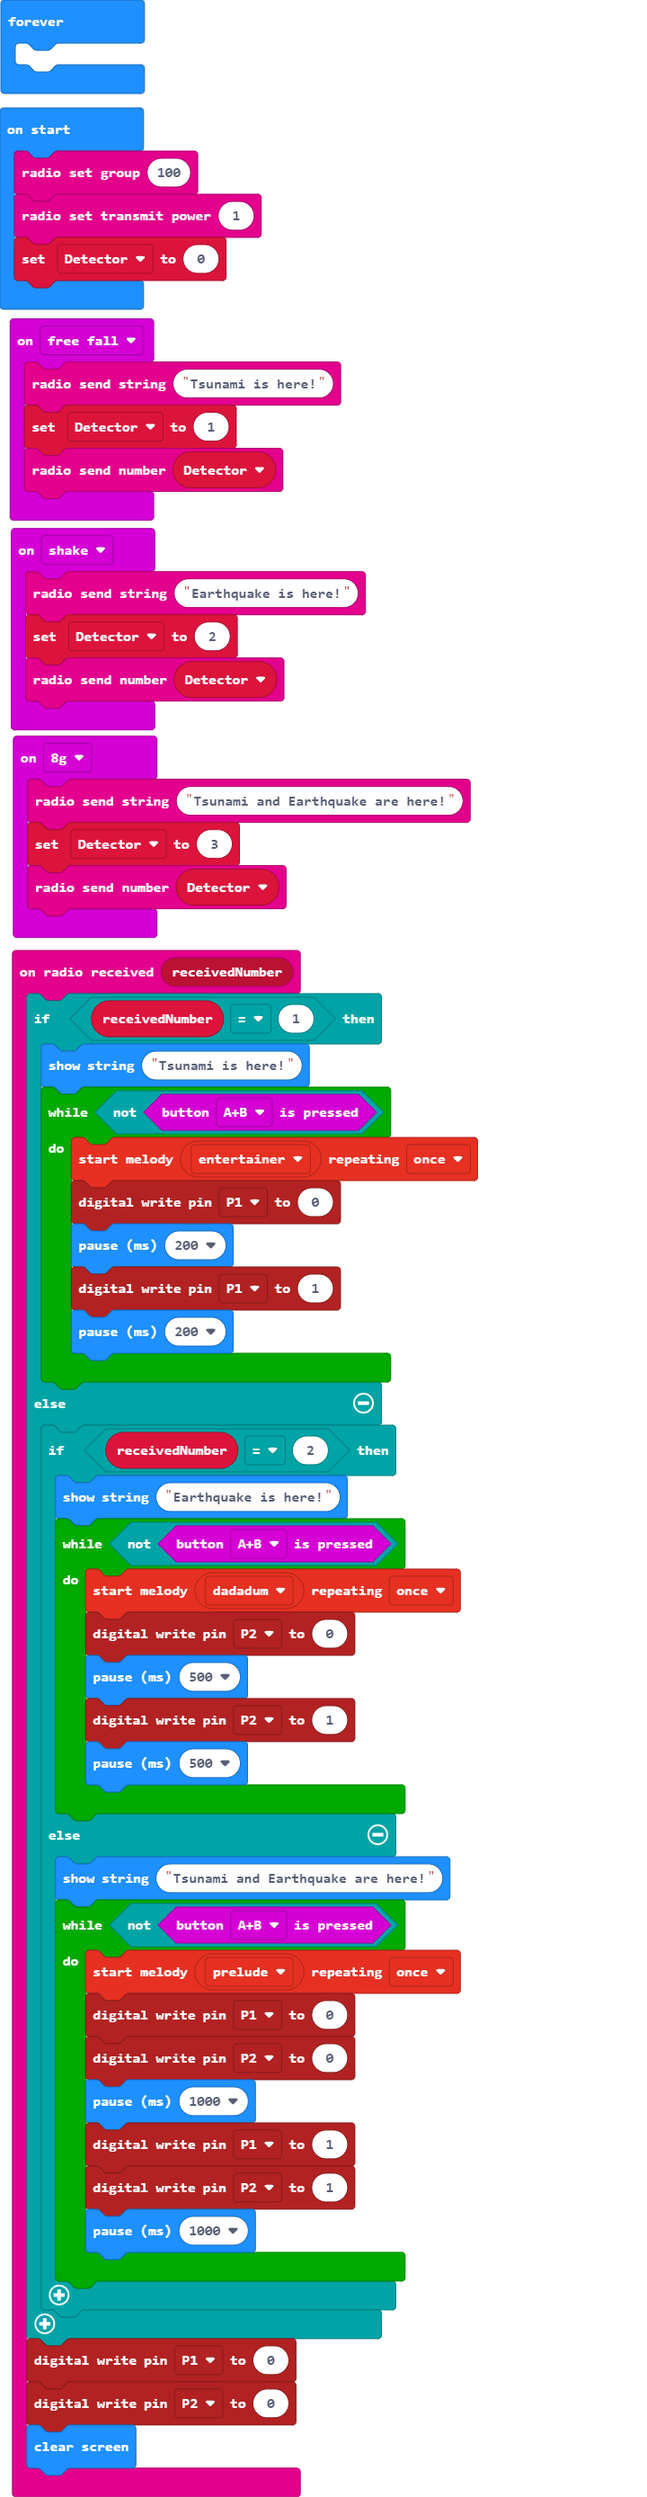
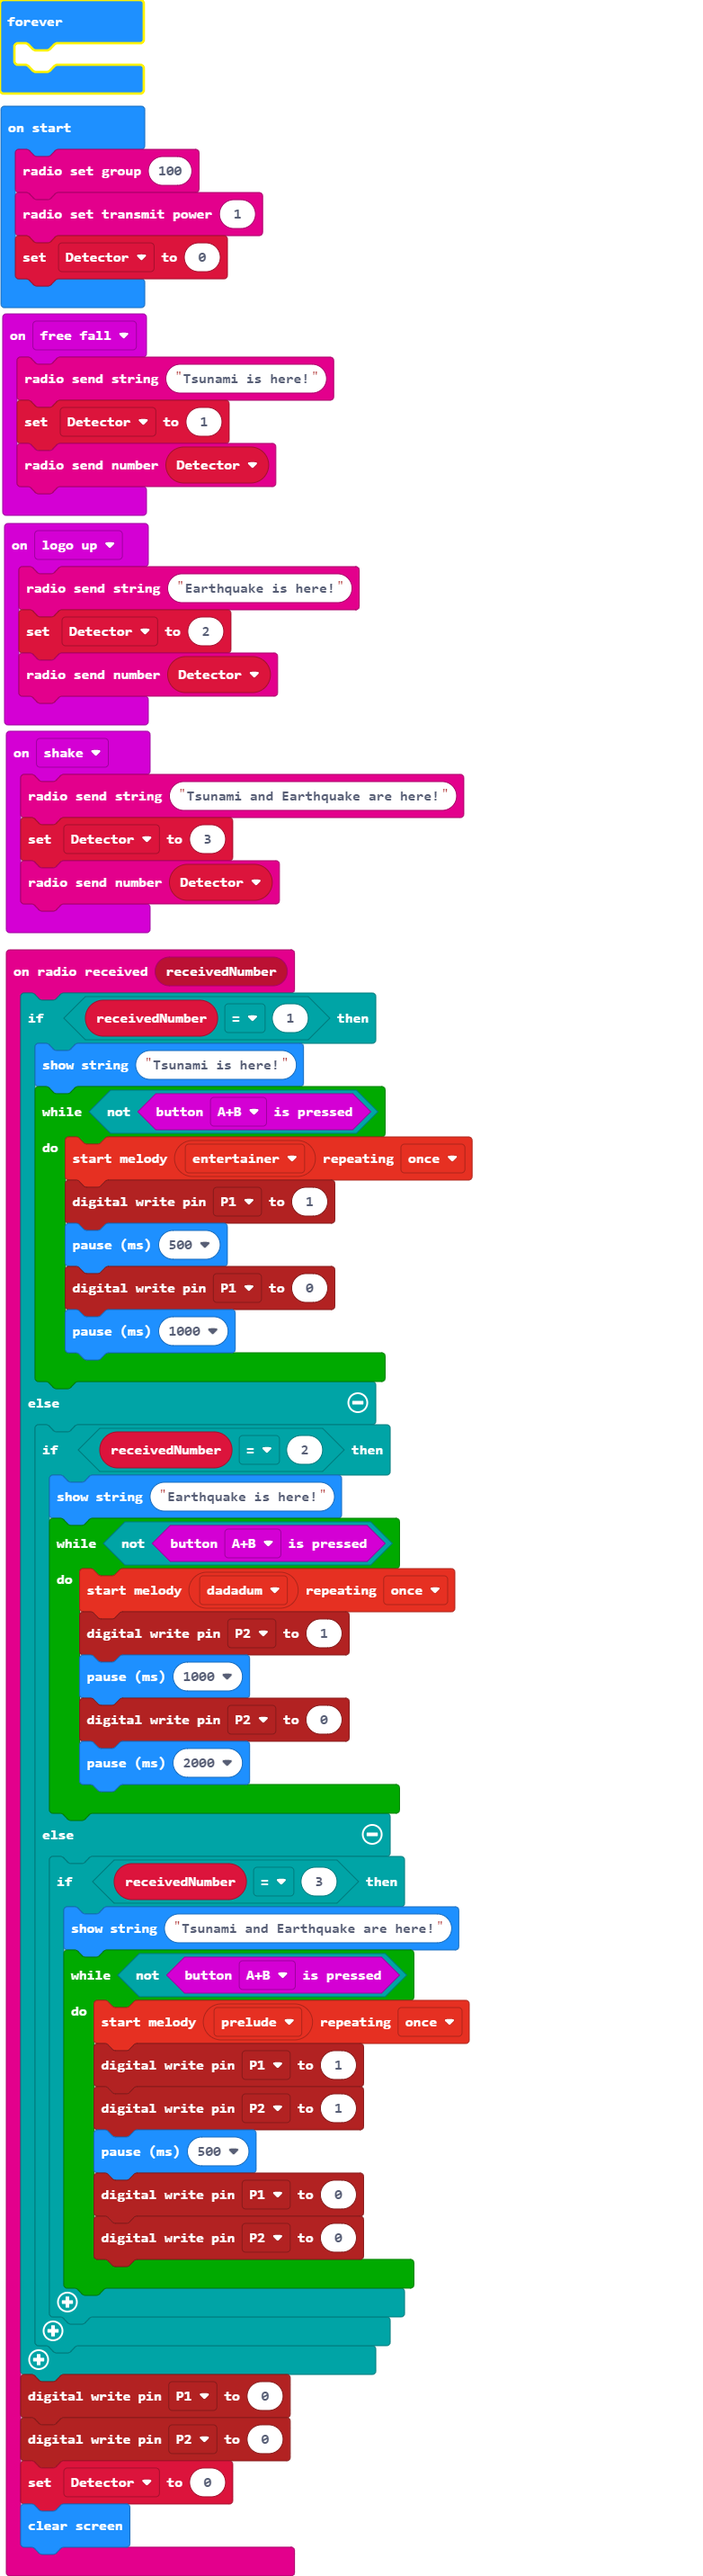
Update pxt.json, main.blocks, main.ts

diff --git a/main.ts b/main.ts
@@ -3,61 +3,59 @@ radio.onReceivedNumber(function (receivedNumber) {
         basic.showString("Tsunami is here!")
         while (!(input.buttonIsPressed(Button.AB))) {
             music.startMelody(music.builtInMelody(Melodies.Entertainer), MelodyOptions.Once)
-            pins.digitalWritePin(DigitalPin.P1, 0)
-            basic.pause(200)
             pins.digitalWritePin(DigitalPin.P1, 1)
-            basic.pause(200)
+            basic.pause(500)
+            pins.digitalWritePin(DigitalPin.P1, 0)
+            basic.pause(1000)
         }
     } else {
         if (receivedNumber == 2) {
             basic.showString("Earthquake is here!")
             while (!(input.buttonIsPressed(Button.AB))) {
                 music.startMelody(music.builtInMelody(Melodies.Dadadadum), MelodyOptions.Once)
-                pins.digitalWritePin(DigitalPin.P2, 0)
-                basic.pause(500)
                 pins.digitalWritePin(DigitalPin.P2, 1)
-                basic.pause(500)
+                basic.pause(1000)
+                pins.digitalWritePin(DigitalPin.P2, 0)
+                basic.pause(2000)
             }
         } else {
-            basic.showString("Tsunami and Earthquake are here!")
-            while (!(input.buttonIsPressed(Button.AB))) {
-                music.startMelody(music.builtInMelody(Melodies.Prelude), MelodyOptions.Once)
-                pins.digitalWritePin(DigitalPin.P1, 0)
-                pins.digitalWritePin(DigitalPin.P2, 0)
-                basic.pause(1000)
-                pins.digitalWritePin(DigitalPin.P1, 1)
-                pins.digitalWritePin(DigitalPin.P2, 1)
-                basic.pause(1000)
+            if (receivedNumber == 3) {
+                basic.showString("Tsunami and Earthquake are here!")
+                while (!(input.buttonIsPressed(Button.AB))) {
+                    music.startMelody(music.builtInMelody(Melodies.Prelude), MelodyOptions.Once)
+                    pins.digitalWritePin(DigitalPin.P1, 1)
+                    pins.digitalWritePin(DigitalPin.P2, 1)
+                    basic.pause(500)
+                    pins.digitalWritePin(DigitalPin.P1, 0)
+                    pins.digitalWritePin(DigitalPin.P2, 0)
+                }
             }
         }
     }
     pins.digitalWritePin(DigitalPin.P1, 0)
     pins.digitalWritePin(DigitalPin.P2, 0)
+    Detector = 0
     basic.clearScreen()
-})
-input.onGesture(Gesture.EightG, function () {
-    radio.sendString("Tsunami and Earthquake are here!")
-    Detector = 3
-    radio.sendNumber(Detector)
 })
 input.onGesture(Gesture.FreeFall, function () {
     radio.sendString("Tsunami is here!")
     Detector = 1
     radio.sendNumber(Detector)
 })
-input.onGesture(Gesture.Shake, function () {
+input.onGesture(Gesture.LogoUp, function () {
     radio.sendString("Earthquake is here!")
     Detector = 2
+    radio.sendNumber(Detector)
+})
+input.onGesture(Gesture.Shake, function () {
+    radio.sendString("Tsunami and Earthquake are here!")
+    Detector = 3
     radio.sendNumber(Detector)
 })
 let Detector = 0
 radio.setGroup(100)
 radio.setTransmitPower(1)
 Detector = 0
-pins.onPulsed(DigitalPin.P0, PulseValue.High, function () {
-    devices.raiseAlertTo(MesAlertEvent.RingAlarm)
-})
 basic.forever(function () {
 	
 })
-
